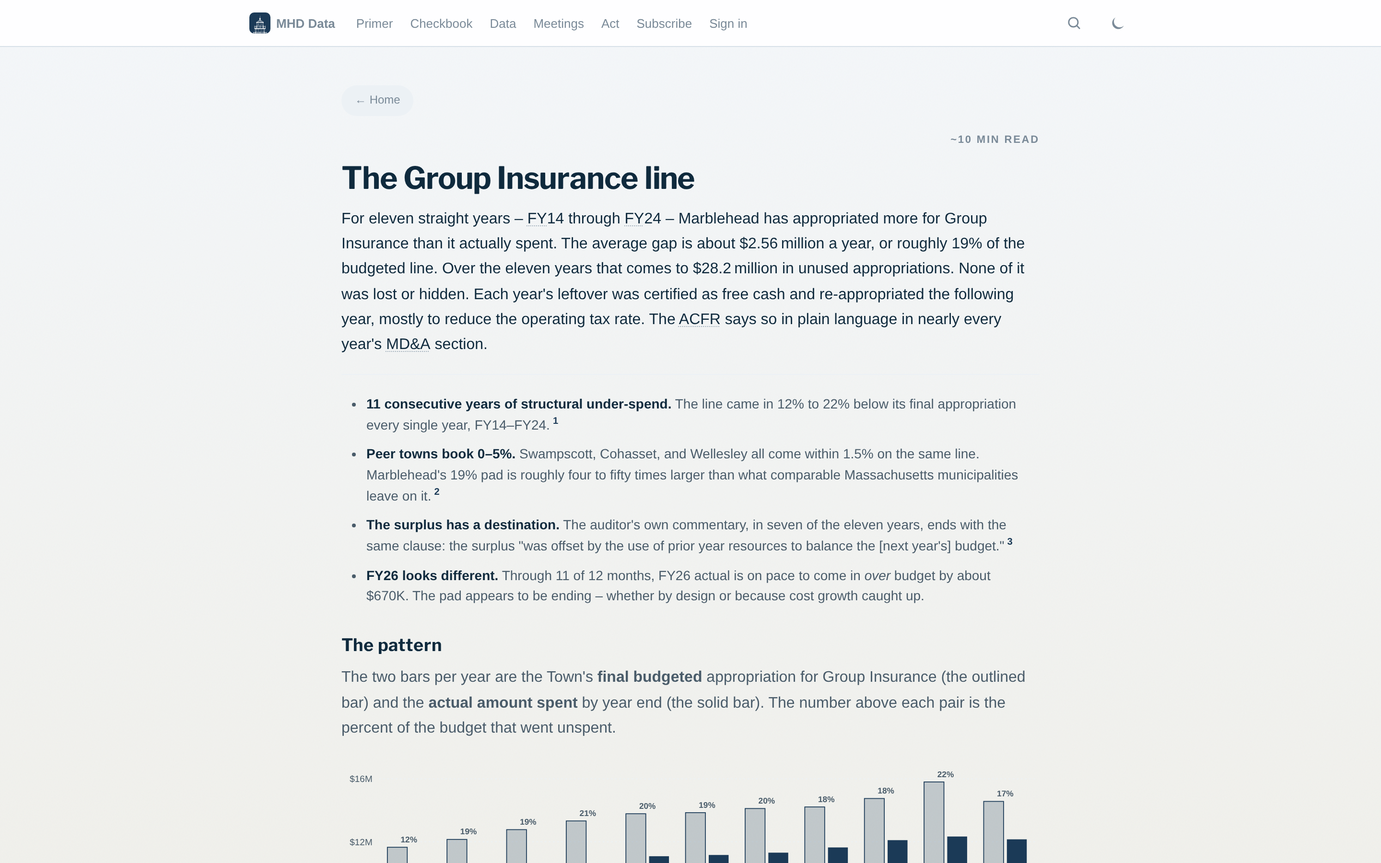
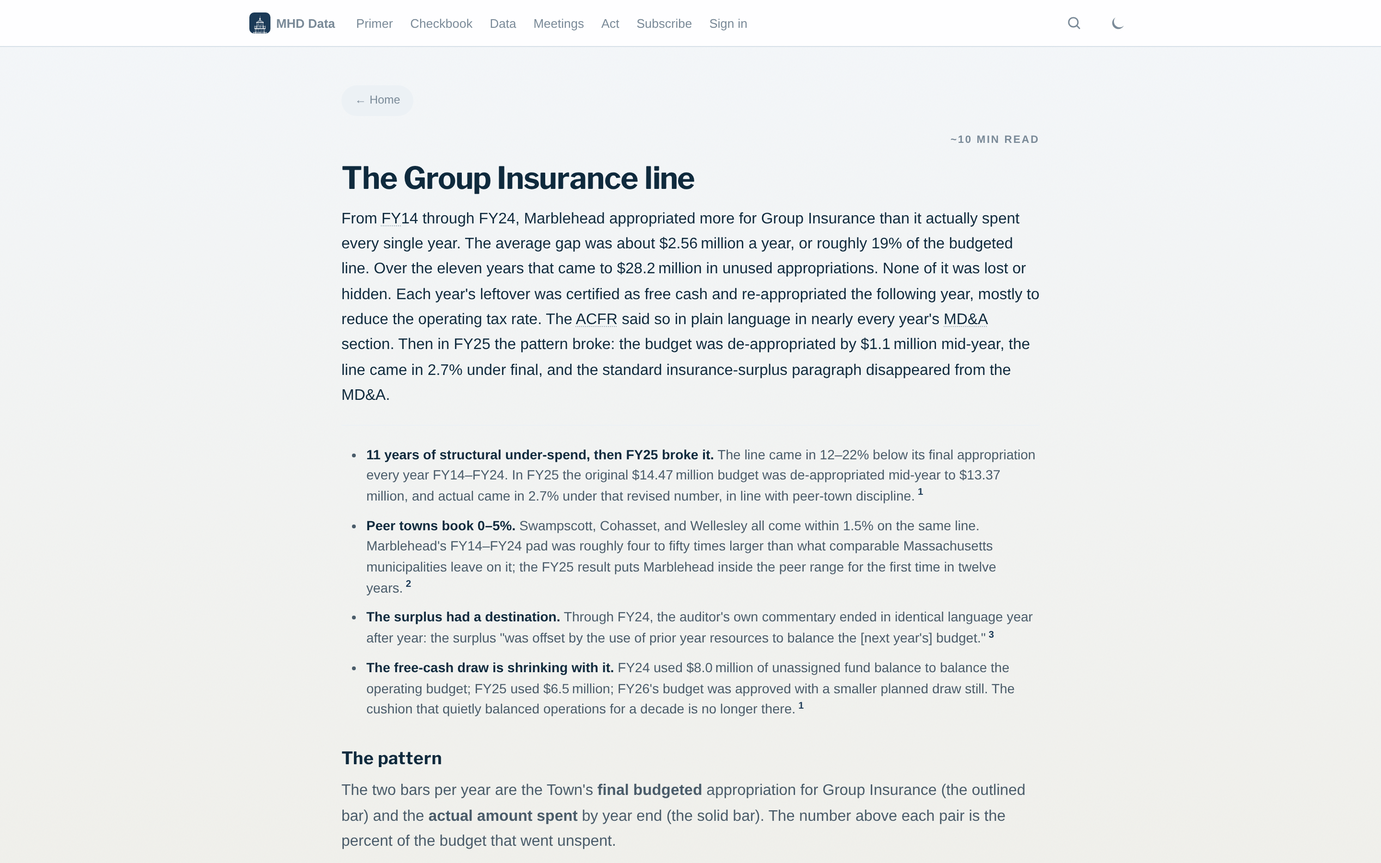
Insurance surplus: FY25 ACFR breaks the 12-year pattern
FY25 ACFR was published this month. The Group Insurance line was
de-appropriated $1.11M mid-year (from $14.47M original to $13.37M
final), and actual came in 2.7% under that revised number. That puts
Marblehead inside the peer-discipline range for the first time in
twelve years.

The FY25 ACFR MD&A also drops the standard "use of prior year
resources to balance the budget" clause that appeared in FY16, FY17,
FY19, FY20, and FY22, replacing it with: "Operations of the general
fund were consistent as revenues and expenditures approximated each
other." The recycling mechanism that quietly balanced operations for a
decade has ended at the same moment the FY27 override appears on the
calendar.

Page changes:
- New og_title and og_description leading with the FY25 break
- New TL;DR (4 bullets); was 4 bullets
- Main chart extended FY14-FY25 (was FY14-FY24); FY25 bar shows
  dramatic narrowing
- Mechanism table extended with FY24 -> FY25 ($2.41M -> $6.50M) and
  FY25 -> FY26 ($0.36M -> in progress) rows
- "FY26 is different" section rewritten as "FY25 broke the pattern"
  with three numbered points (mid-year true-up, actual within 2.7%,
  MD&A drops the clause)
- Three framings panel updated; FY25 strengthens "override-relevant"
  reading and confirms the "critical" reading (the pad was a choice)
- Open Questions: dropped "FY25 not yet published"; added
  "why did the practice change in FY25 specifically?"

Data:
- Renamed data/group_insurance_budget_vs_actual_FY14-24.csv to
[…]

Changed region(s): [[0.25, 0.2489, 0.75, 1.0]]

diff --git a/the-insurance-surplus.html b/the-insurance-surplus.html
@@ -1,8 +1,8 @@
 ---
 title: "The Group Insurance line"
 scripts: [citations]
-og_title: "11 years, $28M, one line of the town budget"
-og_description: "Marblehead has structurally over-budgeted its Group Insurance line by roughly 19% every year for eleven years. The unused $28M did not disappear. Three honest readings of the same set of facts."
+og_title: "11 years, $28M, then it stopped"
+og_description: "Marblehead over-budgeted its Group Insurance line by roughly 19% every year for eleven years. In FY25 the pattern broke: the budget was de-appropriated mid-year and the line came in at 2.7%, in line with peer towns. Three honest readings."
 og_url: https://marbleheaddata.org/the-insurance-surplus.html
 community_pulse: off-sections
 ---
@@ -132,14 +132,14 @@ community_pulse: off-sections
 <h1>The Group Insurance line</h1>
 
 <p class="page-lead">
-  For eleven straight years &ndash; <abbr class="g" title="Fiscal Year">FY</abbr>14 through <abbr class="g" title="Fiscal Year">FY</abbr>24 &ndash; Marblehead has appropriated more for Group Insurance than it actually spent. The average gap is about $2.56&thinsp;million a year, or roughly 19% of the budgeted line. Over the eleven years that comes to $28.2&thinsp;million in unused appropriations. None of it was lost or hidden. Each year's leftover was certified as free cash and re-appropriated the following year, mostly to reduce the operating tax rate. The <abbr class="g" title="Annual Comprehensive Financial Report">ACFR</abbr> says so in plain language in nearly every year's <abbr class="g" title="Management's Discussion and Analysis">MD&amp;A</abbr> section.
+  From <abbr class="g" title="Fiscal Year">FY</abbr>14 through FY24, Marblehead appropriated more for Group Insurance than it actually spent every single year. The average gap was about $2.56&thinsp;million a year, or roughly 19% of the budgeted line. Over the eleven years that came to $28.2&thinsp;million in unused appropriations. None of it was lost or hidden. Each year's leftover was certified as free cash and re-appropriated the following year, mostly to reduce the operating tax rate. The <abbr class="g" title="Annual Comprehensive Financial Report">ACFR</abbr> said so in plain language in nearly every year's <abbr class="g" title="Management's Discussion and Analysis">MD&amp;A</abbr> section. Then in FY25 the pattern broke: the budget was de-appropriated by $1.1&thinsp;million mid-year, the line came in 2.7% under final, and the standard insurance-surplus paragraph disappeared from the MD&amp;A.
 </p>
 
 <ul class="tldr">
-  <li><strong>11 consecutive years of structural under-spend.</strong> The line came in 12% to 22% below its final appropriation every single year, FY14&ndash;FY24.<sup class="cite" data-href="https://github.com/agbaber/marblehead/releases/download/source-archive-v1/FY24_ACFR.pdf" data-source="FY14&ndash;FY24 ACFRs, General Fund Schedule of Revenues, Expenditures and Changes in Fund Balances &ndash; Budget and Actual, Group Insurance line. Compiled in data/group_insurance_budget_vs_actual_FY14-24.csv"></sup></li>
-  <li><strong>Peer towns book 0&ndash;5%.</strong> Swampscott, Cohasset, and Wellesley all come within 1.5% on the same line. Marblehead's 19% pad is roughly four to fifty times larger than what comparable Massachusetts municipalities leave on it.<sup class="cite" data-href="https://www.wellesleyma.gov/DocumentCenter/View/44610/FY24-Financial-Report" data-source="Swampscott FY24 audit p.91, Wellesley FY24 ACFR p.104, Cohasset FY23 ACFR p.82, Hingham FY25 ACFR p.92, Lexington FY24 audit p.83. Compiled in data/peer_group_insurance_budget_vs_actual.csv"></sup></li>
-  <li><strong>The surplus has a destination.</strong> The auditor's own commentary, in seven of the eleven years, ends with the same clause: the surplus "was offset by the use of prior year resources to balance the [next year's] budget."<sup class="cite" data-href="https://github.com/agbaber/marblehead/releases/download/source-archive-v1/FY22_ACFR.pdf" data-source="FY16, FY17, FY19, FY20, FY22 ACFRs &ndash; identical MD&amp;A clause; FY23 ACFR rewords as 'most notable is the group insurance appropriation, which ended the year $3.5 million under budget'"></sup></li>
-  <li><strong>FY26 looks different.</strong> Through 11 of 12 months, FY26 actual is on pace to come in <em>over</em> budget by about $670K. The pad appears to be ending &ndash; whether by design or because cost growth caught up.</li>
+  <li><strong>11 years of structural under-spend, then FY25 broke it.</strong> The line came in 12&ndash;22% below its final appropriation every year FY14&ndash;FY24. In FY25 the original $14.47&thinsp;million budget was de-appropriated mid-year to $13.37&thinsp;million, and actual came in 2.7% under that revised number, in line with peer-town discipline.<sup class="cite" data-href="https://github.com/agbaber/marblehead/releases/download/source-archive-v1/fy25_acfr.pdf" data-source="FY25 ACFR p.97, General Fund Schedule of Revenues, Expenditures and Changes in Fund Balance &ndash; Budget and Actual, Group Insurance line: original $14,473,518, final $13,367,136, actual $13,007,996, variance $359,140"></sup></li>
+  <li><strong>Peer towns book 0&ndash;5%.</strong> Swampscott, Cohasset, and Wellesley all come within 1.5% on the same line. Marblehead's FY14&ndash;FY24 pad was roughly four to fifty times larger than what comparable Massachusetts municipalities leave on it; the FY25 result puts Marblehead inside the peer range for the first time in twelve years.<sup class="cite" data-href="https://www.wellesleyma.gov/DocumentCenter/View/44610/FY24-Financial-Report" data-source="Swampscott FY24 audit p.91, Wellesley FY24 ACFR p.104, Cohasset FY23 ACFR p.82, Hingham FY25 ACFR p.92, Lexington FY24 audit p.83. Compiled in data/peer_group_insurance_budget_vs_actual.csv"></sup></li>
+  <li><strong>The surplus had a destination.</strong> Through FY24, the auditor's own commentary ended in identical language year after year: the surplus "was offset by the use of prior year resources to balance the [next year's] budget."<sup class="cite" data-href="https://github.com/agbaber/marblehead/releases/download/source-archive-v1/FY22_ACFR.pdf" data-source="FY16, FY17, FY19, FY20, FY22 ACFRs &ndash; identical MD&amp;A clause; FY23 ACFR rewords as 'most notable is the group insurance appropriation, which ended the year $3.5 million under budget'. The FY25 MD&amp;A drops this clause."></sup></li>
+  <li><strong>The free-cash draw is shrinking with it.</strong> FY24 used $8.0&thinsp;million of unassigned fund balance to balance the operating budget; FY25 used $6.5&thinsp;million; FY26's budget was approved with a smaller planned draw still. The cushion that quietly balanced operations for a decade is no longer there.<sup class="cite" data-href="https://github.com/agbaber/marblehead/releases/download/source-archive-v1/fy25_acfr.pdf" data-source="FY25 ACFR p.97, Other Budgetary Items, Use of unassigned fund balance: $6,500,000; FY24 ACFR same line: $8,000,000"></sup></li>
 </ul>
 
 <h2>The pattern</h2>
@@ -147,7 +147,7 @@ community_pulse: off-sections
 <p>The two bars per year are the Town's <strong>final budgeted</strong> appropriation for Group Insurance (the outlined bar) and the <strong>actual amount spent</strong> by year end (the solid bar). The number above each pair is the percent of the budget that went unspent.</p>
 
 <div class="gi-chart-wrap">
-<svg class="chart gi-chart" viewBox="0 0 880 380" role="img" aria-label="Group Insurance budget versus actual for fiscal years 2014 to 2024">
+<svg class="chart gi-chart" viewBox="0 0 880 380" role="img" aria-label="Group Insurance budget versus actual for fiscal years 2014 to 2025">
   <line class="gi-grid" x1="64" y1="256.0" x2="856" y2="256.0" />
   <text class="gi-tick" x="56" y="260.0" text-anchor="end">$4M</text>
   <line class="gi-grid" x1="64" y1="180.0" x2="856" y2="180.0" />
@@ -157,57 +157,61 @@ community_pulse: off-sections
   <line class="gi-grid" x1="64" y1="28.0" x2="856" y2="28.0" />
   <text class="gi-tick" x="56" y="32.0" text-anchor="end">$16M</text>
   <line class="gi-axis" x1="64" y1="332" x2="856" y2="332" />
-  <rect class="gi-bar-budget" x="74.0" y="110.7" width="24" height="221.3" />
-  <rect class="gi-bar-actual" x="102.0" y="140.4" width="24" height="191.6" />
-  <text class="gi-variance" x="100.0" y="104.7" text-anchor="middle">12%</text>
-  <text class="gi-xtick" x="100.0" y="348.0" text-anchor="middle">FY14</text>
-  <rect class="gi-bar-budget" x="146.0" y="101.2" width="24" height="230.8" />
-  <rect class="gi-bar-actual" x="174.0" y="145.3" width="24" height="186.7" />
-  <text class="gi-variance" x="172.0" y="95.2" text-anchor="middle">19%</text>
-  <text class="gi-xtick" x="172.0" y="348.0" text-anchor="middle">FY15</text>
-  <rect class="gi-bar-budget" x="218.0" y="89.4" width="24" height="242.6" />
-  <rect class="gi-bar-actual" x="246.0" y="134.8" width="24" height="197.2" />
-  <text class="gi-variance" x="244.0" y="83.4" text-anchor="middle">19%</text>
-  <text class="gi-xtick" x="244.0" y="348.0" text-anchor="middle">FY16</text>
-  <rect class="gi-bar-budget" x="290.0" y="78.9" width="24" height="253.1" />
-  <rect class="gi-bar-actual" x="318.0" y="131.0" width="24" height="201.0" />
-  <text class="gi-variance" x="316.0" y="72.9" text-anchor="middle">21%</text>
-  <text class="gi-xtick" x="316.0" y="348.0" text-anchor="middle">FY17</text>
-  <rect class="gi-bar-budget" x="362.0" y="70.2" width="24" height="261.8" />
-  <rect class="gi-bar-actual" x="390.0" y="121.5" width="24" height="210.5" />
-  <text class="gi-variance" x="388.0" y="64.2" text-anchor="middle">20%</text>
-  <text class="gi-xtick" x="388.0" y="348.0" text-anchor="middle">FY18</text>
-  <rect class="gi-bar-budget" x="434.0" y="68.9" width="24" height="263.1" />
-  <rect class="gi-bar-actual" x="462.0" y="120.0" width="24" height="212.0" />
-  <text class="gi-variance" x="460.0" y="62.9" text-anchor="middle">19%</text>
-  <text class="gi-xtick" x="460.0" y="348.0" text-anchor="middle">FY19</text>
-  <rect class="gi-bar-budget" x="506.0" y="63.9" width="24" height="268.1" />
-  <rect class="gi-bar-actual" x="534.0" y="117.2" width="24" height="214.8" />
-  <text class="gi-variance" x="532.0" y="57.9" text-anchor="middle">20%</text>
-  <text class="gi-xtick" x="532.0" y="348.0" text-anchor="middle">FY20</text>
-  <rect class="gi-bar-budget" x="578.0" y="62.0" width="24" height="270.0" />
-  <rect class="gi-bar-actual" x="606.0" y="110.9" width="24" height="221.1" />
-  <text class="gi-variance" x="604.0" y="56.0" text-anchor="middle">18%</text>
-  <text class="gi-xtick" x="604.0" y="348.0" text-anchor="middle">FY21</text>
-  <rect class="gi-bar-budget" x="650.0" y="51.8" width="24" height="280.2" />
-  <rect class="gi-bar-actual" x="678.0" y="102.1" width="24" height="229.9" />
-  <text class="gi-variance" x="676.0" y="45.8" text-anchor="middle">18%</text>
-  <text class="gi-xtick" x="676.0" y="348.0" text-anchor="middle">FY22</text>
-  <rect class="gi-bar-budget" x="722.0" y="31.8" width="24" height="300.2" />
-  <rect class="gi-bar-actual" x="750.0" y="97.7" width="24" height="234.3" />
-  <text class="gi-variance" x="748.0" y="25.8" text-anchor="middle">22%</text>
-  <text class="gi-xtick" x="748.0" y="348.0" text-anchor="middle">FY23</text>
-  <rect class="gi-bar-budget" x="794.0" y="55.3" width="24" height="276.7" />
-  <rect class="gi-bar-actual" x="822.0" y="101.1" width="24" height="230.9" />
-  <text class="gi-variance" x="820.0" y="49.3" text-anchor="middle">17%</text>
-  <text class="gi-xtick" x="820.0" y="348.0" text-anchor="middle">FY24</text>
+  <rect class="gi-bar-budget" x="73.0" y="110.7" width="22" height="221.3" />
+  <rect class="gi-bar-actual" x="99.0" y="140.4" width="22" height="191.6" />
+  <text class="gi-variance" x="97.0" y="104.7" text-anchor="middle">12%</text>
+  <text class="gi-xtick" x="97.0" y="348.0" text-anchor="middle">FY14</text>
+  <rect class="gi-bar-budget" x="139.0" y="101.2" width="22" height="230.8" />
+  <rect class="gi-bar-actual" x="165.0" y="145.3" width="22" height="186.7" />
+  <text class="gi-variance" x="163.0" y="95.2" text-anchor="middle">19%</text>
+  <text class="gi-xtick" x="163.0" y="348.0" text-anchor="middle">FY15</text>
+  <rect class="gi-bar-budget" x="205.0" y="89.4" width="22" height="242.6" />
+  <rect class="gi-bar-actual" x="231.0" y="134.8" width="22" height="197.2" />
+  <text class="gi-variance" x="229.0" y="83.4" text-anchor="middle">19%</text>
+  <text class="gi-xtick" x="229.0" y="348.0" text-anchor="middle">FY16</text>
+  <rect class="gi-bar-budget" x="271.0" y="78.9" width="22" height="253.1" />
+  <rect class="gi-bar-actual" x="297.0" y="131.0" width="22" height="201.0" />
+  <text class="gi-variance" x="295.0" y="72.9" text-anchor="middle">21%</text>
+  <text class="gi-xtick" x="295.0" y="348.0" text-anchor="middle">FY17</text>
+  <rect class="gi-bar-budget" x="337.0" y="70.2" width="22" height="261.8" />
+  <rect class="gi-bar-actual" x="363.0" y="121.5" width="22" height="210.5" />
+  <text class="gi-variance" x="361.0" y="64.2" text-anchor="middle">20%</text>
+  <text class="gi-xtick" x="361.0" y="348.0" text-anchor="middle">FY18</text>
+  <rect class="gi-bar-budget" x="403.0" y="68.9" width="22" height="263.1" />
+  <rect class="gi-bar-actual" x="429.0" y="120.0" width="22" height="212.0" />
+  <text class="gi-variance" x="427.0" y="62.9" text-anchor="middle">19%</text>
+  <text class="gi-xtick" x="427.0" y="348.0" text-anchor="middle">FY19</text>
+  <rect class="gi-bar-budget" x="469.0" y="63.9" width="22" height="268.1" />
+  <rect class="gi-bar-actual" x="495.0" y="117.2" width="22" height="214.8" />
+  <text class="gi-variance" x="493.0" y="57.9" text-anchor="middle">20%</text>
+  <text class="gi-xtick" x="493.0" y="348.0" text-anchor="middle">FY20</text>
+  <rect class="gi-bar-budget" x="535.0" y="62.0" width="22" height="270.0" />
+  <rect class="gi-bar-actual" x="561.0" y="110.9" width="22" height="221.1" />
+  <text class="gi-variance" x="559.0" y="56.0" text-anchor="middle">18%</text>
+  <text class="gi-xtick" x="559.0" y="348.0" text-anchor="middle">FY21</text>
+  <rect class="gi-bar-budget" x="601.0" y="51.8" width="22" height="280.2" />
+  <rect class="gi-bar-actual" x="627.0" y="102.1" width="22" height="229.9" />
+  <text class="gi-variance" x="625.0" y="45.8" text-anchor="middle">18%</text>
+  <text class="gi-xtick" x="625.0" y="348.0" text-anchor="middle">FY22</text>
+  <rect class="gi-bar-budget" x="667.0" y="31.8" width="22" height="300.2" />
+  <rect class="gi-bar-actual" x="693.0" y="97.7" width="22" height="234.3" />
+  <text class="gi-variance" x="691.0" y="25.8" text-anchor="middle">22%</text>
+  <text class="gi-xtick" x="691.0" y="348.0" text-anchor="middle">FY23</text>
+  <rect class="gi-bar-budget" x="733.0" y="55.3" width="22" height="276.7" />
+  <rect class="gi-bar-actual" x="759.0" y="101.1" width="22" height="230.9" />
+  <text class="gi-variance" x="757.0" y="49.3" text-anchor="middle">17%</text>
+  <text class="gi-xtick" x="757.0" y="348.0" text-anchor="middle">FY24</text>
+  <rect class="gi-bar-budget" x="799.0" y="78.0" width="22" height="254.0" />
+  <rect class="gi-bar-actual" x="825.0" y="84.8" width="22" height="247.2" />
+  <text class="gi-variance" x="823.0" y="72.0" text-anchor="middle">3%</text>
+  <text class="gi-xtick" x="823.0" y="348.0" text-anchor="middle">FY25</text>
 </svg>
 </div>
 <div class="gi-legend">
   <span><span class="gi-legend-swatch gi-legend-swatch-budget"></span> Budgeted (final appropriation)</span>
   <span><span class="gi-legend-swatch gi-legend-swatch-actual"></span> Actually spent</span>
 </div>
-<p class="gi-caption">Source: Town of Marblehead Annual Comprehensive Financial Reports, FY14&ndash;FY24, "General Fund Schedule of Revenues, Expenditures and Changes in Fund Balances &ndash; Budget and Actual," Group Insurance line.<sup class="cite" data-href="https://github.com/agbaber/marblehead/releases/download/source-archive-v1/FY24_ACFR.pdf" data-source="FY24 ACFR; same schedule format in FY14 through FY23 ACFRs. Underlying numbers in data/group_insurance_budget_vs_actual_FY14-24.csv"></sup></p>
+<p class="gi-caption">Source: Town of Marblehead Annual Comprehensive Financial Reports, FY14&ndash;FY25, "General Fund Schedule of Revenues, Expenditures and Changes in Fund Balances &ndash; Budget and Actual," Group Insurance line.<sup class="cite" data-href="https://github.com/agbaber/marblehead/releases/download/source-archive-v1/fy25_acfr.pdf" data-source="FY25 ACFR p.97 and FY14&ndash;FY24 ACFRs, same schedule. Underlying numbers in data/group_insurance_budget_vs_actual_FY14-25.csv"></sup></p>
 
 <h2>Where the surplus goes</h2>
 
@@ -237,12 +241,14 @@ community_pulse: off-sections
     <tr><td>FY21</td><td class="gi-num">$2.57M</td><td class="gi-num">$8.79M (FY22)</td><td class="gi-num">29%</td></tr>
     <tr><td>FY22</td><td class="gi-num">$2.65M</td><td class="gi-num">$10.20M (FY23)</td><td class="gi-num">26%</td></tr>
     <tr><td>FY23</td><td class="gi-num">$3.47M</td><td class="gi-num">$8.00M (FY24)</td><td class="gi-num">43%</td></tr>
+    <tr><td>FY24</td><td class="gi-num">$2.41M</td><td class="gi-num">$6.50M (FY25)</td><td class="gi-num">37%</td></tr>
+    <tr><td>FY25</td><td class="gi-num">$0.36M</td><td class="gi-num">FY26 in progress</td><td class="gi-num">n/a</td></tr>
   </tbody>
 </table>
 
-<p class="gi-caption">Free cash totals come from the General Fund Budgetary Comparison Schedule in each year's ACFR. The Town Meeting article that re-appropriated each year's free cash is the <em>"Available Funds Appropriated to Reduce the Tax Rate"</em> article in the corresponding Annual Town Meeting warrant.<sup class="cite" data-href="/data/general_fund_budgetary_FY15-24.csv" data-source="data/general_fund_budgetary_FY15-24.csv (free cash appropriated, FY15&ndash;FY24, extracted from each ACFR)"></sup></p>
+<p class="gi-caption">Free cash totals come from the General Fund Budgetary Comparison Schedule in each year's ACFR. The Town Meeting article that re-appropriated each year's free cash is the <em>"Available Funds Appropriated to Reduce the Tax Rate"</em> article in the corresponding Annual Town Meeting warrant. FY25 free cash drops to $0.36&thinsp;million from the prior decade's ~$2.5&thinsp;million; the recycling chain is effectively cut.<sup class="cite" data-href="/data/general_fund_budgetary_FY15-24.csv" data-source="data/general_fund_budgetary_FY15-24.csv (free cash appropriated, FY15&ndash;FY24, extracted from each ACFR); FY25 surplus calculated from FY25 ACFR p.97"></sup></p>
 
-<p>The Marblehead Finance Committee flagged this dynamic itself in its 2019 report, noting the town's growing structural reliance on prior-year surplus to balance the operating budget.<sup class="cite" data-href="https://github.com/agbaber/marblehead/releases/download/source-archive-v1/2019_FinCom_Report.pdf" data-source="Marblehead Finance Committee Report, 2019 (page 14, Line 221 Group Insurance and surrounding commentary on reliance on prior-year resources)"></sup></p>
+<p>The Marblehead Finance Committee flagged this dynamic in its 2019 report, noting the town's growing structural reliance on prior-year surplus to balance the operating budget.<sup class="cite" data-href="https://github.com/agbaber/marblehead/releases/download/source-archive-v1/2019_FinCom_Report.pdf" data-source="Marblehead Finance Committee Report, 2019 (page 14, Line 221 Group Insurance and surrounding commentary on reliance on prior-year resources)"></sup> Six years later, the FY25 ACFR's general-fund narrative drops the standard "insurance surplus" disclosure entirely and replaces it with: <em>"Operations of the general fund were consistent as revenues and expenditures approximated each other."</em><sup class="cite" data-href="https://github.com/agbaber/marblehead/releases/download/source-archive-v1/fy25_acfr.pdf" data-source="FY25 ACFR, Management's Discussion and Analysis, Financial Analysis of the Government's Funds section"></sup></p>
 
 <h2>How this compares to peer towns</h2>
 
@@ -286,11 +292,19 @@ community_pulse: off-sections
 
 <p>Cohasset, Wellesley, and Swampscott all participate in the same state-administered <abbr class="g" title="Group Insurance Commission">GIC</abbr> plan that Marblehead joined in July 2012. Their <abbr class="g" title="Group Insurance Commission">GIC</abbr>-driven premium uncertainty is no smaller than Marblehead's, yet they true their budget up to within a couple of percent of actual. Swampscott is particularly worth noting: its FY24 Group Health Insurance line was originally budgeted at $7.53&thinsp;million and was de-appropriated mid-year by $826,405 to a revised $6.71&thinsp;million, almost exactly matching the eventual actual. That kind of mid-year true-up is what discipline on this line looks like; Marblehead's mid-year revisions on the same line are typically under $100K on a $14&thinsp;million budget.<sup class="cite" data-href="https://www.swampscottma.gov/DocumentCenter/View/1212/FY2024-Financial-Audit" data-source="Town of Swampscott FY24 Audit, General Fund Schedule of Revenues, Expenditures and Changes in Fund Balance &ndash; Budget and Actual, p.91 (Group Health Insurance line: original $7,532,701, final $6,706,296, actual $6,705,392)"></sup></p>
 
-<h2>FY26 is different</h2>
+<h2>FY25 broke the pattern</h2>
 
-<p>Through May&nbsp;29, 2026, Group Insurance has spent $14.55&thinsp;million against a $15.20&thinsp;million annual budget. That is 96% of the budget consumed at 92% of the year elapsed.<sup class="cite" data-href="/data/budget_actual_FY26.json" data-source="data/budget_actual_FY26.json (Town checkbook export, as of 2026-06-01, period end 2026-05-29)"></sup> Extrapolated to year-end, FY26 actual would land near $15.88&thinsp;million &ndash; <em>over</em> budget by roughly $670K, or 4%. If the prior eleven-year pattern of an 18.7% under-spend had held, FY26 actual would be roughly $12.36&thinsp;million; the line is on track to come in about $3.5&thinsp;million higher than the historical pattern would predict.</p>
+<p>The FY25 ACFR, published in June 2026, shows the line behaving differently for the first time in twelve years. Three things changed at once:</p>
 
-<p>The FY26 budget was approved at the May&nbsp;2025 Annual Town Meeting, before the FY27 override conversation began in earnest. That means FY26 is not a "trued-up" budget reflecting a new posture; it was set the same way prior budgets were. The most likely explanation is that the <abbr class="g" title="Group Insurance Commission">GIC</abbr> premium hike of 11.1% effective July&nbsp;2025, plus tier-mix shifts, finally consumed the structural pad. The proposed FY27 budget of $16.75&thinsp;million is a further 10.4% increase &ndash; large by historical standards, and closer to the discipline peer towns book.</p>
+<ol>
+  <li><strong>Mid-year true-up.</strong> The original $14.47&thinsp;million Group Insurance appropriation was de-appropriated by $1.11&thinsp;million during the year, taking the final budget down to $13.37&thinsp;million. In the prior decade, mid-year adjustments to this line never exceeded $130K. The FY25 reduction is the kind of action peer towns like Swampscott book annually.<sup class="cite" data-href="https://github.com/agbaber/marblehead/releases/download/source-archive-v1/fy25_acfr.pdf" data-source="FY25 ACFR p.97, Group Insurance line: original budget $14,473,518, final budget $13,367,136. Carryforward and other intra-year movement details on same page."></sup></li>
+  <li><strong>Actual came in close to revised.</strong> Spending was $13.0&thinsp;million, or 2.7% under the de-appropriated final &ndash; on par with Cohasset (0.3%), Wellesley (1.5%), and Swampscott (0.0%). It is the first year in twelve that Marblehead's Group Insurance line lands inside the peer-discipline range.</li>
+  <li><strong>The MD&amp;A drops the recycling clause.</strong> Every year FY16 through FY23 included some variant of the sentence: <em>"these surpluses were offset by the use of prior year resources to balance the [next] budget."</em> The FY25 ACFR does not. Its general-fund narrative reads: <em>"Operations of the general fund were consistent as revenues and expenditures approximated each other."</em></li>
+</ol>
+
+<p>FY26 in-progress data is consistent with the change holding rather than reversing. Through May&nbsp;29,&nbsp;2026, Group Insurance has spent $14.55&thinsp;million against a $15.20&thinsp;million budget; linear extrapolation to year-end gives roughly $15.88&thinsp;million, or 4% <em>over</em> the original budget.<sup class="cite" data-href="/data/budget_actual_FY26.json" data-source="data/budget_actual_FY26.json (Town checkbook export as of 2026-06-01, period end 2026-05-29)"></sup> If the FY25-style mid-year true-up repeats in FY26, the final budget will be revised up to reflect the actual cost; if it does not, FY26 will be the first year in a decade where the line ends <em>over</em> rather than under. Either way the historical 18%+ pad is gone.</p>
+
+<p>The likeliest mechanical drivers of the change: the <abbr class="g" title="Group Insurance Commission">GIC</abbr> premium hike of 11.1% effective July&nbsp;2025, plus tier-mix shifts and headcount changes, consumed the cushion that had been hidden in the prior decade's appropriation. Whatever the proximate cause, the operating budget no longer has a $2.5&thinsp;million-per-year cushion running through this line.</p>
 
 <h2>Three ways to read this</h2>
 
@@ -299,32 +313,32 @@ community_pulse: off-sections
 <div class="gi-framings">
   <article class="gi-framing gi-framing--defensible">
     <h3>Defensible: this is how municipal finance works</h3>
-    <p>Premium rates are set in February for a July&ndash;June fiscal year. Healthcare claims experience is volatile. A conservative appropriation that turns back to free cash and is re-approved by Town Meeting is the standard tool a town has to manage that uncertainty without a separate health-insurance reserve fund. Every dollar was audited, disclosed in the MD&amp;A, and re-appropriated by an open Town Meeting vote.</p>
+    <p>Premium rates are set in February for a July&ndash;June fiscal year. Healthcare claims experience is volatile. A conservative appropriation that turns back to free cash and is re-approved by Town Meeting is a standard tool a town can use to manage uncertainty without a separate health-insurance reserve fund. Every dollar was audited, disclosed in the MD&amp;A, and re-appropriated by an open Town Meeting vote. The FY25 mid-year true-up shows the town can also adjust the line down when it has better information.</p>
   </article>
   <article class="gi-framing gi-framing--critical">
     <h3>Critical: a 19% pad is not actuarial uncertainty</h3>
-    <p>Peer towns with the same GIC plan and the same February rate-setting timeline true their budgets up to within 2%. An 18.7% pad sustained for eleven years is not a prudent cushion against claims volatility &ndash; it is a deliberate budgeting practice that produces a predictable, recyclable surplus. The Finance Committee itself flagged this in 2019 as a structural rather than incidental pattern.</p>
+    <p>Peer towns with the same GIC plan and the same February rate-setting timeline true their budgets up to within 2% every year. An 18.7% pad sustained for eleven years is not a prudent cushion against claims volatility &ndash; it is a deliberate budgeting practice that produces a predictable, recyclable surplus. The Finance Committee itself flagged this in 2019 as a structural rather than incidental pattern. That Marblehead's pad collapsed to 2.7% in FY25 once the budget situation became politically visible is consistent with the practice having been a choice, not a constraint.</p>
   </article>
   <article class="gi-framing gi-framing--override">
-    <h3>Override-relevant: the cushion ran out in FY26</h3>
-    <p>If the operating budget could be balanced for eleven years using a $2.5&thinsp;million-per-year surplus running through the insurance line, the right question about the FY27 override is not "are costs newly exploding?" but "is the surplus that used to balance the budget no longer there?" The FY26 pace and the FY27 budget proposal are both consistent with that reading. The structural pad appears to have ended; the operating gap shows up at the same moment.</p>
+    <h3>Override-relevant: the cushion ran out in FY25</h3>
+    <p>If the operating budget was balanced for eleven years using a $2.5&thinsp;million-per-year surplus running through the insurance line, the right question about the FY27 override is not "are costs newly exploding?" but "is the surplus that used to balance the budget no longer there?" The FY25 numbers settle that question: the surplus is gone. The recycling that quietly funded the operating budget for a decade ended at the same moment the override appeared on the calendar.</p>
   </article>
 </div>
 
 <h2>Open questions</h2>
 
 <ol>
-  <li><strong>Was the FY26 result an outlier or a permanent change?</strong> The FY25 ACFR has not yet been published; once it is, the trajectory will be clearer. If FY25 also tightens toward budget, the pad has ended in earnest. If FY25 looks like the prior decade and only FY26 differs, the FY26 jump may have a more specific explanation.</li>
-  <li><strong>Why did Marblehead's pad never narrow?</strong> Peer GIC towns track to within 2% of actual on the same line. The town's posted budget books since FY14 do not explain the gap. The Finance Committee's 2019 report described the reliance on surplus but did not document an internal decision to keep it.</li>
+  <li><strong>Why did the practice change in FY25 specifically?</strong> FY25 closed June&nbsp;30,&nbsp;2025, six months before the FY27 override became a public conversation. The mid-year de-appropriation happened during the year, so the decision to true the line up predates the override debate, but not the FY26 budget tightening that drove it. No public document explains the change in posture.</li>
+  <li><strong>Why didn't the pad narrow sooner?</strong> Peer GIC towns track to within 2% of actual on the same line every year. The town's posted budget books since FY14 do not explain why Marblehead's pad ran four to fifty times larger for so long. The Finance Committee's 2019 report described the reliance on surplus but did not document an internal decision to maintain it.</li>
   <li><strong>Are other line items doing the same thing on a smaller scale?</strong> The FY22 ACFR breakdown of total general-fund under-spend ($3.3&thinsp;million) versus the Group Insurance component ($2.6&thinsp;million) implies about $700K of additional pad spread across other lines. Identifying those lines would refine the "where did the cushion come from" picture.</li>
-  <li><strong>How will FY27 actual track against the $16.75M budget?</strong> FY26 was the first year in over a decade to run on pace with budget. FY27 is being set 10% higher than FY26. If FY27 also tracks close, that is the new baseline. If it under-spends again, the pattern has not actually ended.</li>
+  <li><strong>How will FY27 actual track against the $16.75&thinsp;million budget?</strong> If FY27 also lands within a couple of percent of its final budget, the 2.7% FY25 result is the new baseline. If FY27 under-spends substantially, the pattern has not actually ended &ndash; it just paused for a year.</li>
 </ol>
 
 <details class="notes">
   <summary>Sources and methodology</summary>
-  <p><strong>FY14&ndash;FY24 budget vs actual.</strong> Each year's Group Insurance row was extracted from the General Fund Schedule of Revenues, Expenditures and Changes in Fund Balances &ndash; Budget and Actual in the corresponding Town of Marblehead ACFR. Original budget, final budget, actual, encumbrances, and variance are recorded in <code>data/group_insurance_budget_vs_actual_FY14-24.csv</code>. ACFR PDFs are at <a href="https://github.com/agbaber/marblehead/releases/tag/source-archive-v1">github.com/agbaber/marblehead/releases/source-archive-v1</a>.</p>
-  <p><strong>MD&amp;A quotes.</strong> Verbatim. The same clause about "use of prior year resources to balance the [next year's] budget" appears in the FY16, FY17, FY19, FY20, and FY22 ACFRs. The FY14, FY15, FY18, and FY23 ACFRs use slightly different wording but report the same mechanism.</p>
-  <p><strong>Free cash flow.</strong> Free cash appropriated to balance each subsequent year's budget comes from the General Fund Budgetary Comparison Schedule in each ACFR, captured in <code>data/general_fund_budgetary_FY15-24.csv</code>.</p>
+  <p><strong>FY14&ndash;FY25 budget vs actual.</strong> Each year's Group Insurance row was extracted from the General Fund Schedule of Revenues, Expenditures and Changes in Fund Balances &ndash; Budget and Actual in the corresponding Town of Marblehead ACFR. Original budget, final budget, actual, encumbrances, and variance are recorded in <code>data/group_insurance_budget_vs_actual_FY14-25.csv</code>. ACFR PDFs are at <a href="https://github.com/agbaber/marblehead/releases/tag/source-archive-v1">github.com/agbaber/marblehead/releases/source-archive-v1</a>.</p>
+  <p><strong>MD&amp;A quotes.</strong> Verbatim. The same clause about "use of prior year resources to balance the [next year's] budget" appears in the FY16, FY17, FY19, FY20, and FY22 ACFRs. The FY14, FY15, FY18, and FY23 ACFRs use slightly different wording but report the same mechanism. The FY25 ACFR drops the clause and instead says the general fund's revenues and expenditures "approximated each other."</p>
+  <p><strong>Free cash flow.</strong> Free cash appropriated to balance each subsequent year's budget comes from the General Fund Budgetary Comparison Schedule in each ACFR, captured in <code>data/general_fund_budgetary_FY15-24.csv</code>. FY25 used $6.5&thinsp;million in unassigned fund balance to balance the budget, down from $8.0&thinsp;million in FY24 and $10.2&thinsp;million in FY23.</p>
   <p><strong>Peer town extractions.</strong> Swampscott FY24 audit (Group Health Insurance line, p.91, final budget de-appropriated mid-year from $7.53M original to $6.71M); Cohasset FY23 ACFR (Health Insurance line, p.82); Wellesley FY24 Financial Report (Group Insurance: Expenses line, p.104); Hingham FY25 ACFR (Employee Benefits aggregate line, p.92); Lexington FY24 audit (Insurance line aggregating health insurance with workers' compensation transfer to internal service fund, p.83). Raw data in <code>data/peer_group_insurance_budget_vs_actual.csv</code>.</p>
   <p><strong>FY26 in-progress numbers.</strong> From the Town's checkbook export as of 2026-06-01, period end 2026-05-29, captured in <code>data/budget_actual_FY26.json</code>. The full-year projection is a linear extrapolation from month 11 of 12 and is approximate; insurance billings are roughly level monthly but not exactly.</p>
   <p><strong>Definitions.</strong> "Group Insurance" on the Town's budget schedule is the Town's own appropriation for its share of employee and retiree health insurance premiums, net of payroll-withheld employee contributions. It is not the same as the gross GIC invoice total, which includes the employee share that retirees and active employees pay themselves and which never flows through the Town's appropriation.</p>
